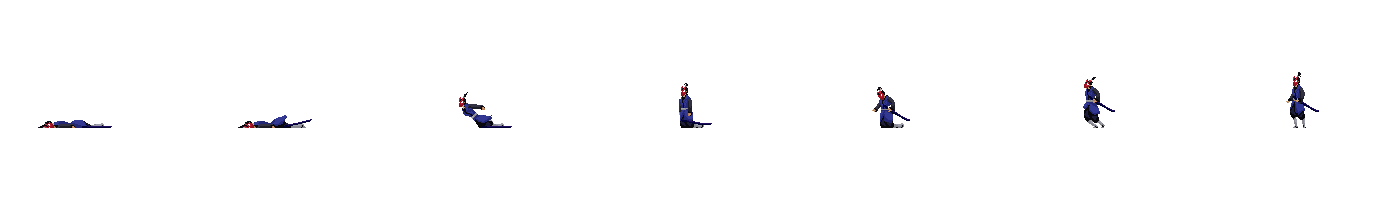
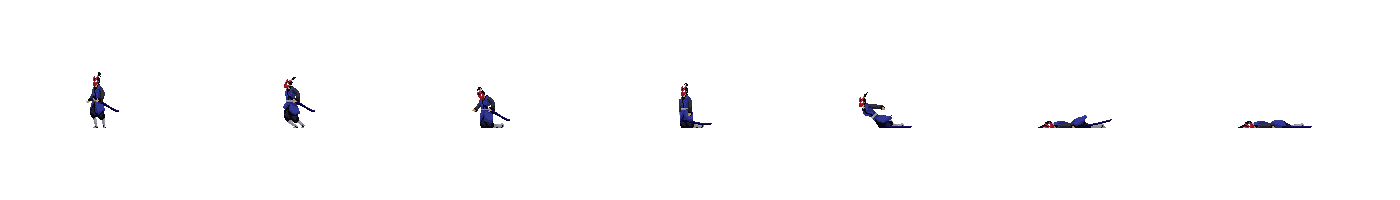
ggg

diff --git a/games/fight-game/js/classes.js b/games/fight-game/js/classes.js
@@ -38,14 +38,21 @@ class Sprite {
         )
     }
 
+    animateFrames() {
+        this.framesElapsed++
+    
+        if (this.framesElapsed % this.framesHold === 0) {
+          if (this.framesCurrent < this.framesMax - 1) {
+            this.framesCurrent++
+          } else {
+            this.framesCurrent = 0
+          }
+        }
+      }
+
     update(){
         this.draw()
-        this.framesElapsed++
-        if(this.framesElapsed % this.framesHold === 0){
-        if(this.framesCurrent < this.framesMax - 1){
-            this.framesCurrent++
-        } else {this.framesCurrent = 0}
-    }
+        this.animateFrames()
 }
 }
 
@@ -85,6 +92,7 @@ class Fighter extends Sprite {
         this.framesElapsed = 0
         this.framesHold = 12
         this.sprites = sprites
+        this.dead = false
 
         for(const sprite in this.sprites){
             sprites[sprite].image = new Image()
@@ -94,12 +102,9 @@ class Fighter extends Sprite {
 
     update(){
         this.draw()
-        this.framesElapsed++
-        if(this.framesElapsed % this.framesHold === 0){
-        if(this.framesCurrent < this.framesMax - 1){
-            this.framesCurrent++
-        } else {this.framesCurrent = 0}
-    }
+        if(!this.dead){
+        this.animateFrames()}
+
         this.attackBox.position.x = this.position.x + this.attackBox.offset.x
         this.attackBox.position.y = this.position.y + this.attackBox.offset.y
 
@@ -107,7 +112,7 @@ class Fighter extends Sprite {
             this.attackBox.position.x,
             this.attackBox.position.y,
             this.attackBox.width,
-            this.attackBox.height)
+            this.attackBox.height) 
 
         this.position.x += this.velocity.x
         this.position.y += this.velocity.y
@@ -123,9 +128,28 @@ class Fighter extends Sprite {
         this.isAttacking = true
     }
 
+    takeHit(){
+        this.health -= 20
+        if(this.health <= 0){
+            this.switchSprite("death")
+        }else {
+            this.switchSprite("takeHit")
+        }
+    }
+
     switchSprite(sprite){
+        if (this.image === this.sprites.death.image){
+            if (this.framesCurrent === this.sprites.death.framesMax - 1) this.dead = true
+            return
+        }
+
+
         if (this.image === this.sprites.attack1.image &&
             this.framesCurrent < this.sprites.attack1.framesMax - 1) return
+
+        if (this.image === this.sprites.takeHit.image &&
+            this.framesCurrent < this.sprites.takeHit.framesMax - 1) return
+
         switch (sprite){
             case "idle":
                 if(this.image !== this.sprites.idle.image){
@@ -155,6 +179,18 @@ class Fighter extends Sprite {
                 if(this.image !== this.sprites.attack1.image){
                 this.image = this.sprites.attack1.image
                 this.framesMax = this.sprites.attack1.framesMax
+                this.framesCurrent = 0}
+                break
+            case "takeHit":
+                if(this.image !== this.sprites.takeHit.image){
+                this.image = this.sprites.takeHit.image
+                this.framesMax = this.sprites.takeHit.framesMax
+                this.framesCurrent = 0}
+                break
+            case "death":
+                if(this.image !== this.sprites.death.image){
+                this.image = this.sprites.death.image
+                this.framesMax = this.sprites.death.framesMax
                 this.framesCurrent = 0}
                 break
         }

diff --git a/games/fight-game/index.js b/games/fight-game/index.js
@@ -72,6 +72,14 @@ sprites: {
         imageSrc: './img/Player1/Run.png',
         framesMax: 8
     },
+    takeHit: {
+        imageSrc: './img/Player1/Take hit - white silhouette.png',
+        framesMax: 4
+    },
+    death: {
+        imageSrc: './img/Player1/Death.png',
+        framesMax: 6
+    }
 },
 attackBox: {
     offset: {x:100,y:50},
@@ -112,6 +120,14 @@ sprites: {
     run: {
         imageSrc: './img/Player2/Run.png',
         framesMax: 8
+    },
+    takeHit: {
+        imageSrc: './img/Player2/Take hit.png',
+        framesMax: 3
+    },
+    death: {
+        imageSrc: './img/Player2/Death.png',
+        framesMax: 7
     },
 },
 attackBox: {
@@ -194,8 +210,8 @@ function animate(){
     if (rectangularCollision({rectangle1:player,rectangle2:enemy}) &&
         player.isAttacking && player.framesCurrent === 4
     ){
+        enemy.takeHit()
         player.isAttacking = false
-        enemy.health -= 20
         document.querySelector('#enemyHealth').style.width = enemy.health + '%'
 
     }
@@ -207,8 +223,8 @@ function animate(){
     if (rectangularCollision({rectangle1:enemy,rectangle2:player}) &&
         enemy.isAttacking && enemy.framesCurrent === 2
     ){
+        player.takeHit()
         enemy.isAttacking = false
-        player.health -= 20
         document.querySelector('#playerHealth').style.width = player.health + '%'
 
     }
@@ -231,7 +247,7 @@ function animate(){
 animate()
 
 window.addEventListener('keydown', (event) =>{
-    
+    if (!player.dead){
     switch(event.key){
         case 'd':
             keys.d.pressed = true
@@ -247,6 +263,10 @@ window.addEventListener('keydown', (event) =>{
         case ' ':
             player.attack()
         break
+    }
+}
+    if (!enemy.dead){
+    switch(event.key){
 
         case 'ArrowRight':
             keys.ArrowRight.pressed = true
@@ -263,6 +283,7 @@ window.addEventListener('keydown', (event) =>{
             enemy.attack()
         break
     }
+}
 })
 
 window.addEventListener('keyup', (event) =>{
